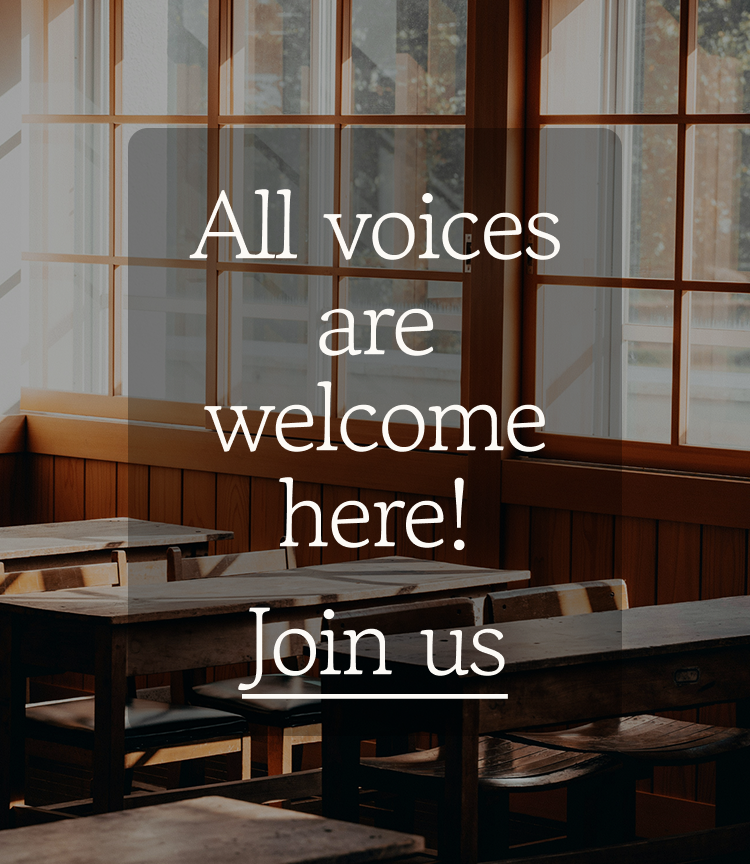
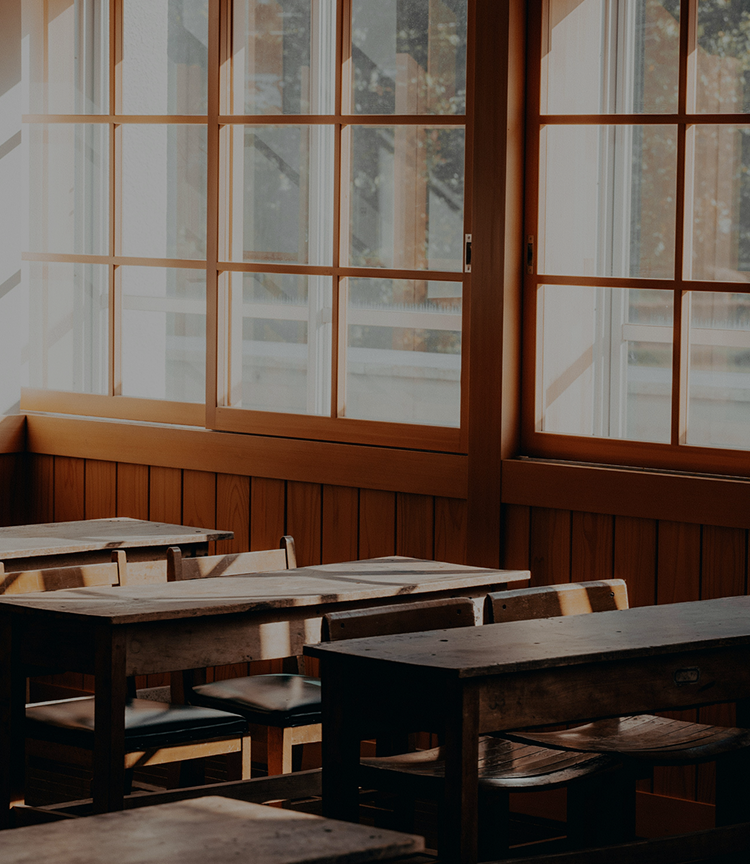
Adicionando a section results, what e adicionando as imagens. Fazendo a responsividade

diff --git a/atividadesDESWEB/atv-lc/index.html b/atividadesDESWEB/atv-lc/index.html
@@ -1,12 +1,17 @@
 <!DOCTYPE html>
 <html lang="pt-br">
+
 <head>
     <meta charset="UTF-8">
     <meta name="viewport" content="width=device-width, initial-scale=1.0">
     <title>Lincoln School</title>
+    <link rel="preconnect" href="https://fonts.googleapis.com">
+    <link rel="preconnect" href="https://fonts.gstatic.com" crossorigin>
+    <link href="https://fonts.googleapis.com/css2?family=Gowun+Batang&display=swap" rel="stylesheet">
     <link rel="stylesheet" href="css/reset.css">
     <link rel="stylesheet" href="css/style.css">
 </head>
+
 <body>
     <header>
         <nav>
@@ -44,22 +49,72 @@
                 <a href="#">Join us</a>
             </p>
         </section>
+        <section class="what">
+            <h2>What We Do</h2>
+            <ul>
+                <li>
+                    <h4>Club Details:</h4>
+                    <h3>
+                        Speech and Debate is where you'll learn to think critically, speak confidently, and engage in
+                        exciting competitions. Here's everything you need to know:
+                    </h3>
+                </li>
+                <li>
+                    <h4>What:</h4>
+                    <h3>Ready to find your voice?</h3>
+                    <p>
+                        This is a safe place to hone your skills with like-minded peers.
+                    </p>
+                </li>
+                <li>
+                    <h4>Who:</h4>
+                    <h3>All Lincoln High students</h3>
+                    <p>
+                        Everyone, in any grade, is welcome to join.
+                    </p>
+                </li>
+                <li>
+                    <h4>When:</h4>
+                    <h3>Wednesday, 3:30-4:30pm</h3>
+                    <p>
+                        You’ll be out in time for the late bus home.
+                    </p>
+                </li>
+                <li>
+                    <h4>Where:</h4>
+                    <h3>Room 204</h3>
+                    <p>
+                        We meet in Mr. Smith’s room. He’s our teacher sponsor.
+                    </p>
+                </li>
+            </ul>
+        </section>
         <section class="news">
             <h2>The latest news</h2>
             <ul>
                 <li>
+                    <div>
+                        <img src="images/product-school.png" alt="product-school">
+                    </div>
                     <h4>2025 Regional Results</h4>
                     <h3>Lincoln Takes Home 1st place overall. </h3>
                     <p>
-                        The team took home a stunning win, claiming 3 of the top 5 spots! Big shout outs to Emily, Steve, Bryan and Lizzie.
+                        The team took home a stunning win, claiming 3 of the top 5 spots! Big shout outs to Emily,
+                        Steve, Bryan and Lizzie.
                     </p>
                 </li>
                 <li>
                     <h4>Upcoming event</h4>
                     <h3> 6/11 Lunch Hour Pizza</h3>
+                    <div>
+                        <img src="images/kateryna-hliznitsova.png" alt="Room">
+                    </div>
                 </li>
                 <li>
                     <h4>Spotlight</h4>
+                    <div>
+                        <img src="images/darshan-patel.png" alt="Johnny S">
+                    </div>
                     <h3>Johnny S.</h3>
                     <p>
                         Congrats Johnny on qualifying for Nationals!
@@ -67,9 +122,49 @@
                 </li>
             </ul>
         </section>
+        <section class="results">
+            <h2>2025 Regional Results</h2>
+            <p>
+                Scoresheets are available for download below.
+            </p>
+            <ul>
+                <h3>
+                    Speech events
+                </h3>
+                <li>
+                    Dramatic Interpretation (DI)
+                </li>
+                <li>
+                    Duo Interpretation (DUO)
+                </li>
+                <li>
+                    Humorous Interpretation (HI)
+                </li>
+                <li>
+                    Humorous Interpretation (HI)
+                </li>
+            </ul>
+            <ul>
+                <h3>
+                    Debate events
+                </h3>
+                <li>
+                    Extemporaneous Debate (XDB)
+                </li>
+                <li>
+                    Lincoln-Douglas Debate (LD)
+                </li>
+            </ul>
+        </section>
+        <section class="join">
+            <h2>
+                All voices are welcome here! <a href="#">Join us</a>
+            </h2>
+        </section>
     </main>
     <footer>
 
     </footer>
 </body>
+
 </html>

diff --git a/atividadesDESWEB/atv-lc/css/style.css b/atividadesDESWEB/atv-lc/css/style.css
@@ -1,5 +1,9 @@
 html {
   font-size: clamp(1rem, calc(0.5rem + 2vw), 1.625rem);
+  font-family: "Gowun Batang", serif;
+}
+section.news, section.results, section.what {
+    padding: 2vw 10vw;
 }
 /*=== Header ===*/
 header {
@@ -35,10 +39,32 @@ section.banner p:first-child {
 section.banner a {
     text-decoration: underline;
 }
+/*=== What we do*/
+section.what {
+    text-align: center;
+}
+section.what h2 {
+    font-size: 2.3rem;
+    margin: 2vw 0;
+}
+section.what h3 {
+    margin: 4vw 0;
+    font-size: 1.5rem;
+}
+section.what h4 {
+    margin: 4vw 0;
+    font-size: 1rem;
+    color: #3D1A0D;
+}
+section.what ul li {
+    padding: 10vw 0;
+}
+section.what p {
+    font-weight: bold;
+}
 /*===News===*/
 section.news {
     text-align: center;
-    padding: 2vw 10vw;
 }
 section.news h2 {
     font-size: 1.6rem;
@@ -48,14 +74,50 @@ section.news ul li {
     border-radius:10px;
 }
 section.news ul li {
-    font-size: 0.7rem;
+    font-size: 0.9rem;
     margin: 4vw 0vw;
+    padding: 0 0 3vw 0;
 }
 section.news ul li h4 {
-    font-size: 0.9rem;
+    font-size: 1rem;
+    padding: 0 0 3vw 0;
 }
 section.news ul li h3 {
-    font-size: 1.2rem;
+    font-size: 1.4rem;
+    padding: 0 0 3vw 0;
+}
+section.news ul li img {
+    width: 90%;
+    padding: 2vw 0 3vw 0;
+}
+/*=== Results ===*/
+section.results h2{
+    font-size: 2.5rem;        
+}
+section.results h3 {
+    margin: 2vw 0;
+    font-size: 1rem;
+    color: #3D1A0D;
+}
+section.results ul li {
+    border-left: 1px solid grey;
+    padding: 0 0 2vw 2vw;
+    margin: 2vw 0 2vw 0;
+}
+/*=== Join ===*/
+section.join {
+    background: url(../images/Call\ to\ action\ section.png) no-repeat;
+    background-size: 100% auto;
+    padding: 4vw 10vw;
+}
+section.join h2 {
+    font-size: 2.5rem;
+    color: white;
+    text-align: center;
+    background: rgba(0, 0,0 , 0.3);
+}
+section.join h2 a {
+    text-decoration: underline;
 }
 
 @media only screen and (min-width: 600px) {
@@ -73,5 +135,15 @@ section.news ul li h3 {
     section.news ul li {
         width: 30%;
         font-size: 0.7rem;
+        padding: 0 0 0.5vw 0;
     }
-} 
+    section.what ul {
+        display: flex;
+        flex-wrap: wrap;
+        justify-content: center;
+    }
+    section.what ul li {
+        width: 30%;
+        padding: 0 2vw 0 2vw;
+    }
+}
